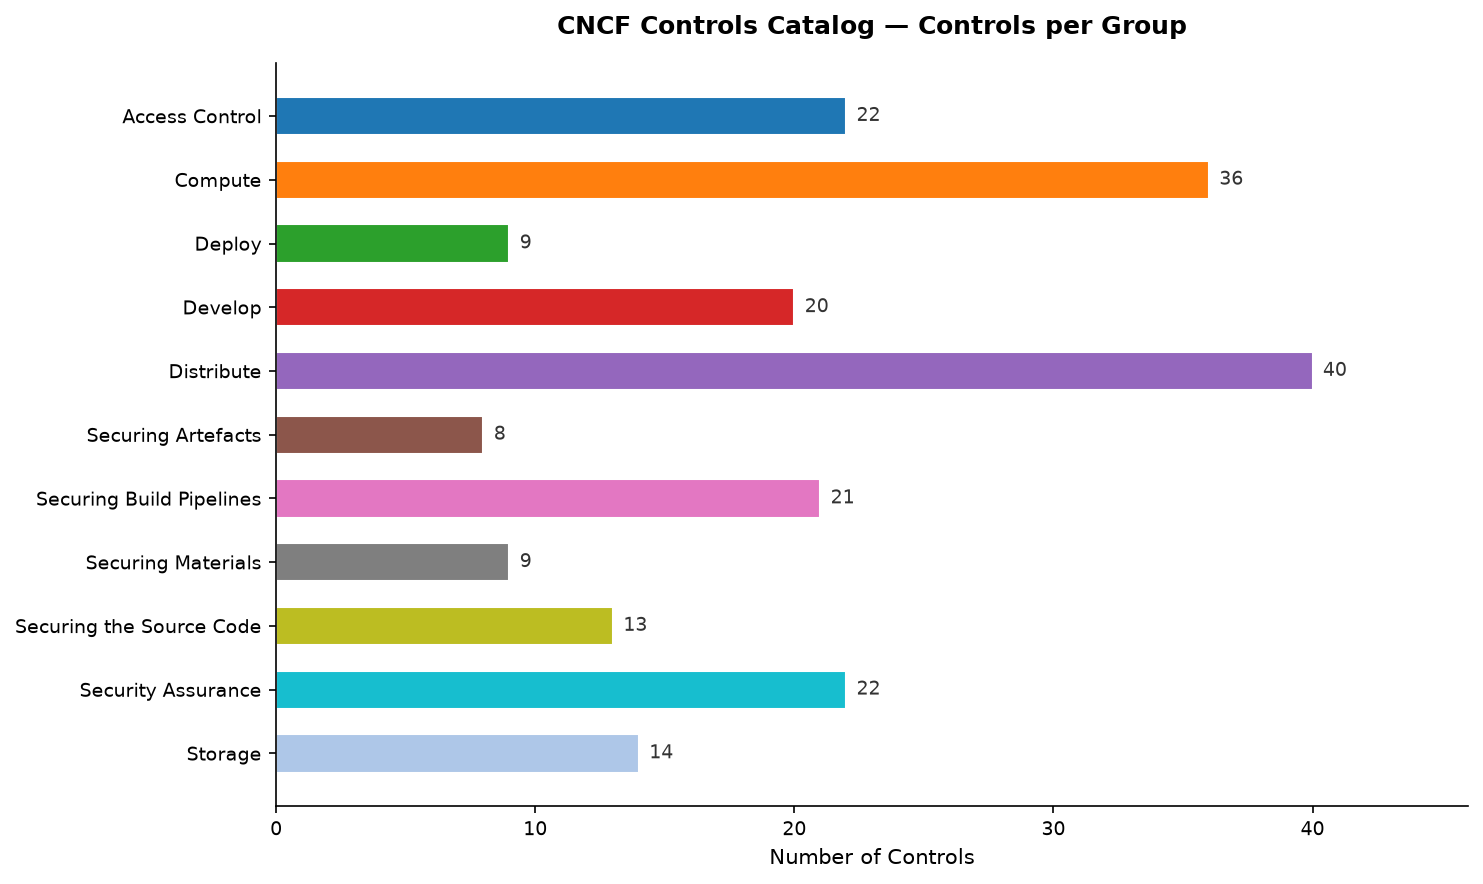
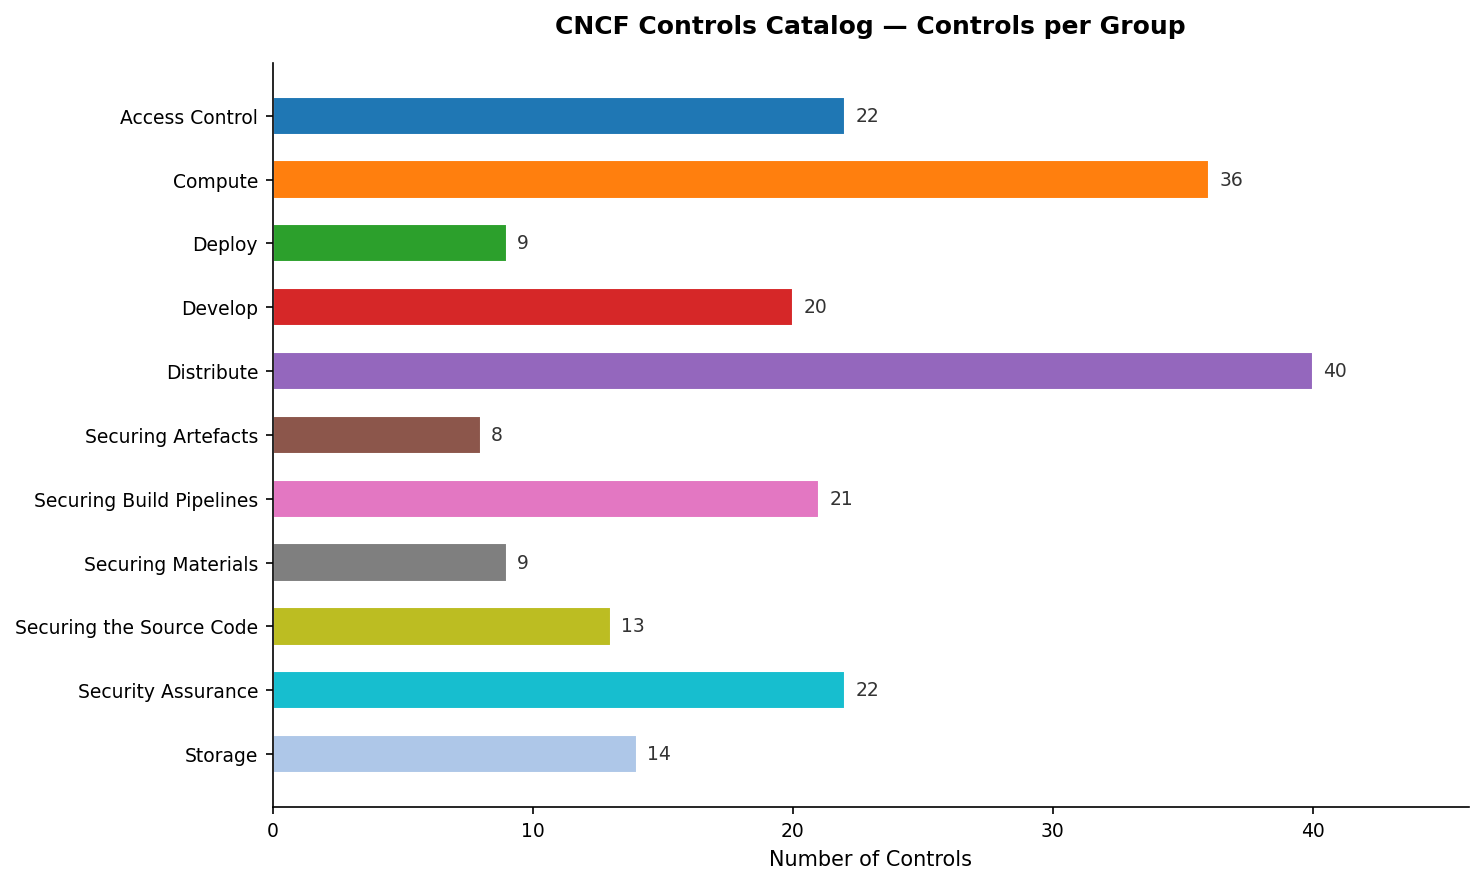
fix table

diff --git a/scripts/update_readme.py b/scripts/update_readme.py
@@ -39,14 +39,25 @@ COLOURS = [
 ]
 
 
+def _has_nist_mapping(control: dict) -> bool:
+    """True if the control has at least one NIST SP 800-53 link."""
+    return any("NIST.SP.800-53" in link.get("href", "") for link in control.get("links", []))
+
+
 def load_groups(catalog_path: Path) -> list[dict]:
-    """Return [{title, controls: [id, ...]}, ...] from the catalog."""
+    """Return [{title, controls, mapped, unmapped}, ...] from the catalog.
+
+    Each of controls / mapped / unmapped is a list of control ids.
+    """
     data = json.loads(catalog_path.read_text(encoding="utf-8"))
     groups = []
     for g in data["catalog"]["groups"]:
+        controls = g.get("controls", [])
         groups.append({
             "title": g["title"],
-            "controls": [c["id"] for c in g.get("controls", [])],
+            "controls": [c["id"] for c in controls],
+            "mapped": [c["id"] for c in controls if _has_nist_mapping(c)],
+            "unmapped": [c["id"] for c in controls if not _has_nist_mapping(c)],
         })
     return groups
 
@@ -100,13 +111,19 @@ def build_chart_md(chart_path: Path, readme_path: Path) -> str:
 
 def build_table(groups: list[dict]) -> str:
     total = sum(len(g["controls"]) for g in groups)
+    total_mapped = sum(len(g["mapped"]) for g in groups)
+    total_unmapped = sum(len(g["unmapped"]) for g in groups)
     rows = []
-    rows.append("| Group | Count | Controls |")
-    rows.append("|---|:---:|---|")
+    rows.append("| Group | Count | Mapped | Unmapped | Mapped controls | Unmapped controls |")
+    rows.append("|---|:---:|:---:|:---:|---|---|")
     for g in groups:
-        ctrl_ids = ", ".join(g["controls"])
-        rows.append(f"| {g['title']} | {len(g['controls'])} | {ctrl_ids} |")
-    rows.append(f"| **Total** | **{total}** | |")
+        mapped_ids = ", ".join(g["mapped"]) or "-"
+        unmapped_ids = ", ".join(g["unmapped"]) or "-"
+        rows.append(
+            f"| {g['title']} | {len(g['controls'])} | {len(g['mapped'])} | {len(g['unmapped'])} "
+            f"| {mapped_ids} | {unmapped_ids} |"
+        )
+    rows.append(f"| **Total** | **{total}** | **{total_mapped}** | **{total_unmapped}** | | |")
     return "\n".join(rows)
 
 

diff --git a/README.md b/README.md
@@ -16,20 +16,20 @@ Output: [trestle.ws/catalogs/cncf-controls/catalog.json](trestle.ws/catalogs/cnc
 
 <!-- table-start -->
 
-| Group | Count | Controls |
-|---|:---:|---|
-| Access Control | 22 | CNSC-1, CNSC-2, CNSC-3, CNSC-4, CNSC-5, CNSC-6, CNSC-7, CNSC-8, CNSC-9, CNSC-10, CNSC-11, CNSC-12, CNSC-13, CNSC-14, CNSC-15, CNSC-16, CNSC-17, CNSC-18, CNSC-19, CNSC-20, CNSC-21, CNSC-208 |
-| Compute | 36 | CNSC-22, CNSC-23, CNSC-24, CNSC-25, CNSC-26, CNSC-27, CNSC-28, CNSC-29, CNSC-30, CNSC-31, CNSC-32, CNSC-33, CNSC-34, CNSC-35, CNSC-36, CNSC-37, CNSC-38, CNSC-39, CNSC-40, CNSC-41, CNSC-42, CNSC-43, CNSC-44, CNSC-45, CNSC-46, CNSC-47, CNSC-48, CNSC-49, CNSC-50, CNSC-51, CNSC-52, CNSC-53, CNSC-54, CNSC-55, CNSC-56, CNSC-233 |
-| Deploy | 9 | CNSC-57, CNSC-58, CNSC-59, CNSC-60, CNSC-61, CNSC-62, CNSC-170, CNSC-171, CNSC-172 |
-| Develop | 20 | CNSC-63, CNSC-64, CNSC-65, CNSC-66, CNSC-67, CNSC-68, CNSC-69, CNSC-70, CNSC-71, CNSC-72, CNSC-73, CNSC-74, CNSC-75, CNSC-76, CNSC-77, CNSC-78, CNSC-195, CNSC-259, CNSC-265, CNSC-271 |
-| Distribute | 40 | CNSC-79, CNSC-80, CNSC-81, CNSC-82, CNSC-83, CNSC-84, CNSC-85, CNSC-86, CNSC-87, CNSC-88, CNSC-89, CNSC-90, CNSC-91, CNSC-92, CNSC-93, CNSC-94, CNSC-95, CNSC-96, CNSC-97, CNSC-98, CNSC-99, CNSC-100, CNSC-101, CNSC-102, CNSC-103, CNSC-104, CNSC-105, CNSC-106, CNSC-107, CNSC-108, CNSC-109, CNSC-110, CNSC-111, CNSC-112, CNSC-113, CNSC-114, CNSC-274, CNSC-297, CNSC-298, CNSC-303 |
-| Securing Artefacts | 8 | CNSC-141, CNSC-142, CNSC-143, CNSC-144, CNSC-145, CNSC-146, CNSC-147, CNSC-148 |
-| Securing Build Pipelines | 21 | CNSC-149, CNSC-150, CNSC-151, CNSC-152, CNSC-153, CNSC-154, CNSC-155, CNSC-156, CNSC-157, CNSC-158, CNSC-159, CNSC-160, CNSC-161, CNSC-162, CNSC-163, CNSC-164, CNSC-165, CNSC-166, CNSC-167, CNSC-168, CNSC-169 |
-| Securing Materials | 9 | CNSC-173, CNSC-174, CNSC-175, CNSC-176, CNSC-177, CNSC-178, CNSC-179, CNSC-180, CNSC-181 |
-| Securing the Source Code | 13 | CNSC-182, CNSC-183, CNSC-184, CNSC-185, CNSC-186, CNSC-187, CNSC-188, CNSC-189, CNSC-190, CNSC-191, CNSC-192, CNSC-193, CNSC-194 |
-| Security Assurance | 22 | CNSC-115, CNSC-116, CNSC-117, CNSC-118, CNSC-119, CNSC-120, CNSC-121, CNSC-122, CNSC-123, CNSC-124, CNSC-125, CNSC-126, CNSC-196, CNSC-197, CNSC-198, CNSC-199, CNSC-200, CNSC-201, CNSC-202, CNSC-203, CNSC-204, CNSC-205 |
-| Storage | 14 | CNSC-127, CNSC-128, CNSC-129, CNSC-130, CNSC-131, CNSC-132, CNSC-133, CNSC-134, CNSC-135, CNSC-136, CNSC-137, CNSC-138, CNSC-139, CNSC-140 |
-| **Total** | **214** | |
+| Group | Count | Mapped | Unmapped | Mapped controls | Unmapped controls |
+|---|:---:|:---:|:---:|---|---|
+| Access Control | 22 | 22 | 0 | CNSC-1, CNSC-2, CNSC-3, CNSC-4, CNSC-5, CNSC-6, CNSC-7, CNSC-8, CNSC-9, CNSC-10, CNSC-11, CNSC-12, CNSC-13, CNSC-14, CNSC-15, CNSC-16, CNSC-17, CNSC-18, CNSC-19, CNSC-20, CNSC-21, CNSC-208 | - |
+| Compute | 36 | 36 | 0 | CNSC-22, CNSC-23, CNSC-24, CNSC-25, CNSC-26, CNSC-27, CNSC-28, CNSC-29, CNSC-30, CNSC-31, CNSC-32, CNSC-33, CNSC-34, CNSC-35, CNSC-36, CNSC-37, CNSC-38, CNSC-39, CNSC-40, CNSC-41, CNSC-42, CNSC-43, CNSC-44, CNSC-45, CNSC-46, CNSC-47, CNSC-48, CNSC-49, CNSC-50, CNSC-51, CNSC-52, CNSC-53, CNSC-54, CNSC-55, CNSC-56, CNSC-233 | - |
+| Deploy | 9 | 7 | 2 | CNSC-57, CNSC-58, CNSC-59, CNSC-60, CNSC-62, CNSC-170, CNSC-171 | CNSC-61, CNSC-172 |
+| Develop | 20 | 19 | 1 | CNSC-63, CNSC-64, CNSC-65, CNSC-66, CNSC-67, CNSC-68, CNSC-69, CNSC-70, CNSC-71, CNSC-73, CNSC-74, CNSC-75, CNSC-76, CNSC-77, CNSC-78, CNSC-195, CNSC-259, CNSC-265, CNSC-271 | CNSC-72 |
+| Distribute | 40 | 29 | 11 | CNSC-85, CNSC-86, CNSC-87, CNSC-88, CNSC-89, CNSC-90, CNSC-91, CNSC-92, CNSC-93, CNSC-94, CNSC-97, CNSC-99, CNSC-100, CNSC-101, CNSC-102, CNSC-103, CNSC-104, CNSC-105, CNSC-106, CNSC-107, CNSC-108, CNSC-109, CNSC-110, CNSC-112, CNSC-113, CNSC-114, CNSC-297, CNSC-298, CNSC-303 | CNSC-79, CNSC-80, CNSC-81, CNSC-82, CNSC-83, CNSC-84, CNSC-95, CNSC-96, CNSC-98, CNSC-111, CNSC-274 |
+| Securing Artefacts | 8 | 7 | 1 | CNSC-141, CNSC-142, CNSC-143, CNSC-144, CNSC-145, CNSC-146, CNSC-148 | CNSC-147 |
+| Securing Build Pipelines | 21 | 17 | 4 | CNSC-149, CNSC-150, CNSC-151, CNSC-152, CNSC-153, CNSC-155, CNSC-156, CNSC-157, CNSC-158, CNSC-161, CNSC-162, CNSC-163, CNSC-164, CNSC-165, CNSC-167, CNSC-168, CNSC-169 | CNSC-154, CNSC-159, CNSC-160, CNSC-166 |
+| Securing Materials | 9 | 6 | 3 | CNSC-173, CNSC-174, CNSC-175, CNSC-179, CNSC-180, CNSC-181 | CNSC-176, CNSC-177, CNSC-178 |
+| Securing the Source Code | 13 | 13 | 0 | CNSC-182, CNSC-183, CNSC-184, CNSC-185, CNSC-186, CNSC-187, CNSC-188, CNSC-189, CNSC-190, CNSC-191, CNSC-192, CNSC-193, CNSC-194 | - |
+| Security Assurance | 22 | 9 | 13 | CNSC-115, CNSC-116, CNSC-117, CNSC-120, CNSC-121, CNSC-122, CNSC-123, CNSC-124, CNSC-125 | CNSC-118, CNSC-119, CNSC-126, CNSC-196, CNSC-197, CNSC-198, CNSC-199, CNSC-200, CNSC-201, CNSC-202, CNSC-203, CNSC-204, CNSC-205 |
+| Storage | 14 | 11 | 3 | CNSC-127, CNSC-128, CNSC-129, CNSC-130, CNSC-131, CNSC-132, CNSC-135, CNSC-136, CNSC-137, CNSC-139, CNSC-140 | CNSC-133, CNSC-134, CNSC-138 |
+| **Total** | **214** | **176** | **38** | | |
 
 <!-- table-end -->
 
